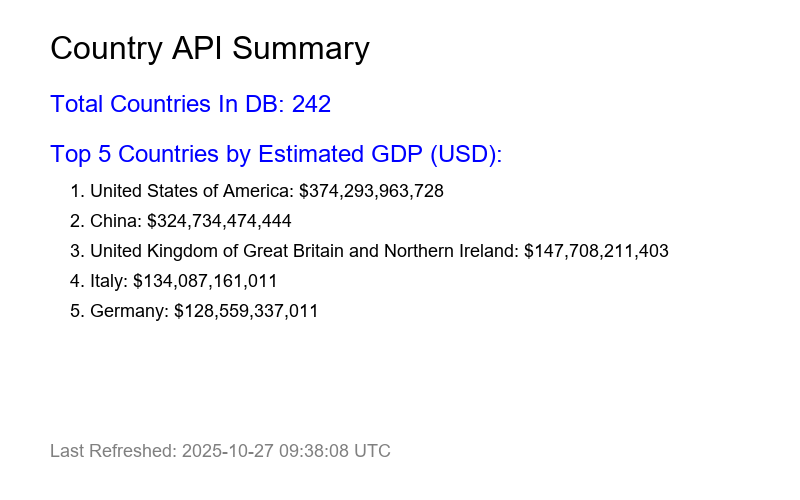
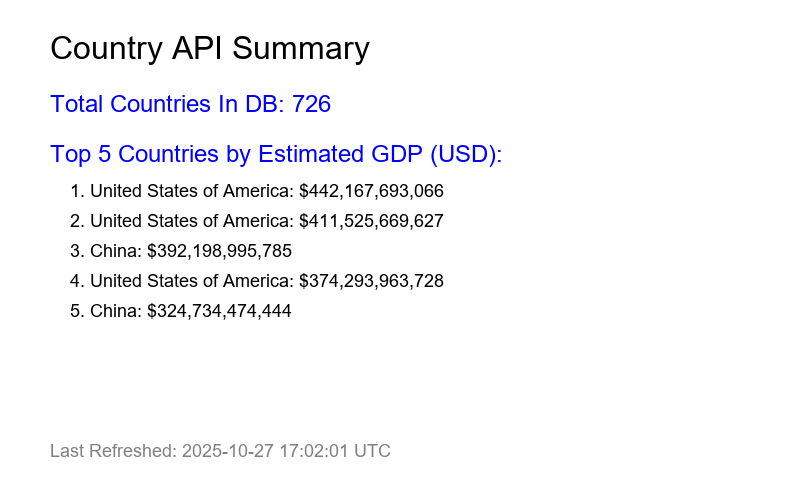
add some changes in docker file

diff --git a/src/Currency_converter/services.py b/src/Currency_converter/services.py
@@ -239,38 +239,21 @@ def bulk_refresh_countries(db: Session):
                 estimated_gdp = (population * randrange(1000, 2000)) / exchange_rate if exchange_rate > 0 else 0
             
             
-            existing = db.query(CurrencyExchanger).filter(
-                func.lower(CurrencyExchanger.name) == country_name.lower()
-            ).first()
+                          
+            new_country = CurrencyExchanger(
+                name=country_name,
+                capital=country.get('capital', 'N/A'),
+                region=country.get('region', 'Unknown'),
+                population=population,
+                currency_code=currency_code,
+                exchange_rate=exchange_rate,
+                estimated_gdp=estimated_gdp,
+                flag_url=country.get('flag', ''),
+                last_refreshed_at=refresh_timestamp,
+            )
             
-            if existing:
-                
-                existing.capital = country.get('capital', 'N/A')
-                existing.region = country.get('region', 'Unknown')
-                existing.population = population
-                existing.currency_code = currency_code
-                existing.exchange_rate = exchange_rate
-                existing.estimated_gdp = estimated_gdp
-                existing.flag_url = country.get('flag', '')
-                existing.last_refreshed_at = refresh_timestamp
-                
-                updated_countries.append(country_name)
-            else:
-                
-                new_country = CurrencyExchanger(
-                    name=country_name,
-                    capital=country.get('capital', 'N/A'),
-                    region=country.get('region', 'Unknown'),
-                    population=population,
-                    currency_code=currency_code,
-                    exchange_rate=exchange_rate,
-                    estimated_gdp=estimated_gdp,
-                    flag_url=country.get('flag', ''),
-                    last_refreshed_at=refresh_timestamp,
-                )
-                
-                db.add(new_country)
-                created_countries.append(country_name)
+            db.add(new_country)
+            created_countries.append(country_name)
             
         except Exception as e:
             print(f"Error processing country {country.get('name', 'Unknown')}: {e}")
